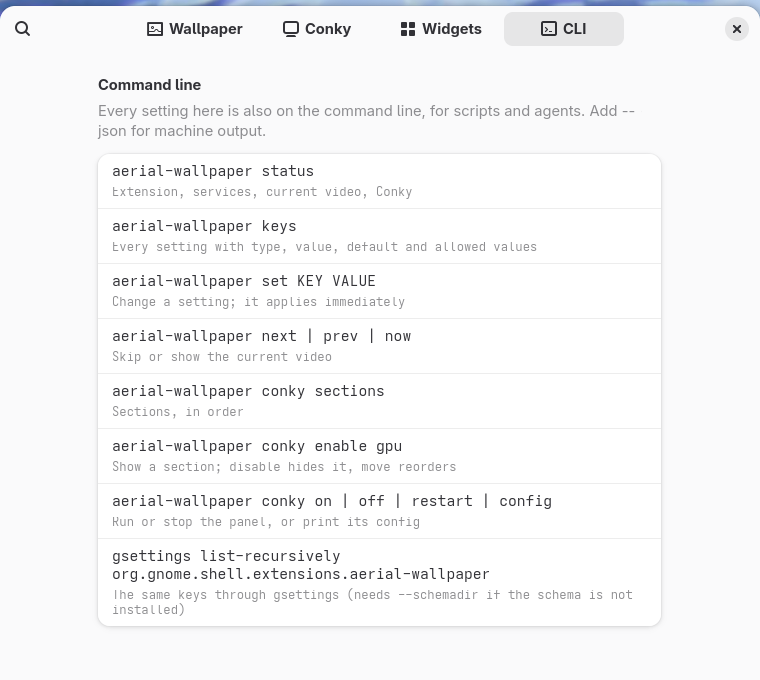
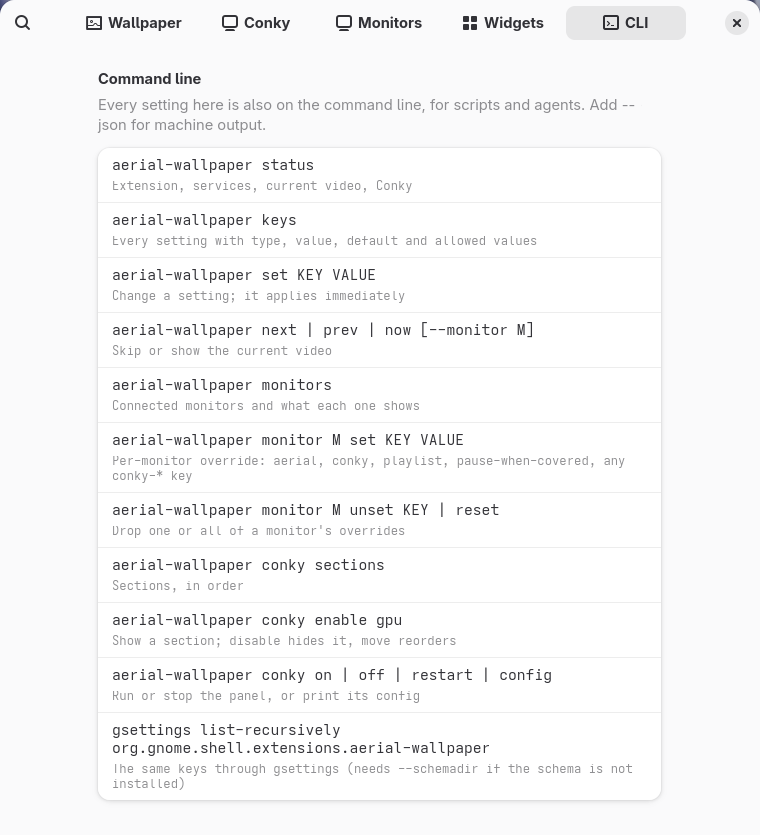
Add multi-monitor screenshots and refresh the preferences screenshots
- docs/screenshots/multimon-desktop.jpg and multimon-panel.jpg from
  tests/multimon-test.sh (two virtual monitors), prefs-monitors.png for
  the new Monitors page; README gets a two-monitor section.
- Refresh the other preferences screenshots for the Monitors tab.
- tests/conky-test.sh: move the prefs screenshot times so each one again
  lands on the page it is named for (the extra page shifted the cycle).

diff --git a/README.md b/README.md
@@ -18,8 +18,23 @@ The same panel restyled and moved from the CLI (`aerial-wallpaper set conky-posi
 |---|---|---|
 | ![Preferences: Wallpaper](docs/screenshots/prefs-wallpaper.png) | ![Preferences: Widgets](docs/screenshots/prefs-widgets.png) | ![Preferences: CLI](docs/screenshots/prefs-cli.png) |
 
+Two monitors, each with its own video, playlist and Conky panel: the 4K primary plays the default playlist with
+the full panel; the 1080p monitor plays the `Space` category with a panel of just the clock and the current video
+(`aerial-wallpaper monitor Meta-1 set playlist Space conky true conky-position bottom-left conky-sections clock,aerial`):
+
+![Two monitors: a video and a panel on each](docs/screenshots/multimon-desktop.jpg)
+
+<p>
+<img src="docs/screenshots/multimon-panel.jpg" alt="The second monitor's panel: clock and current video" width="300">
+<img src="docs/screenshots/prefs-monitors.png" alt="Preferences: Monitors page" width="380">
+</p>
+
+The Monitors page sets video, playlist, panel and panel position per monitor (shown after the second monitor's
+video was switched off from the CLI); every other `conky-*` key can be overridden per monitor from the CLI.
+
 Screenshots come from `tests/conky-test.sh` (headless shell, 3840x2160 virtual monitor; the black window is a
-plain mpv window used to check stacking).
+plain mpv window used to check stacking) and `tests/multimon-test.sh` (two virtual monitors, `Meta-0` 3840x2160
+and `Meta-1` 1920x1080).
 
 - `extension/` — GNOME Shell extension `aerial-wallpaper@viablesys`. It runs one mpv per monitor that plays
   (`aerial-wallpaper@MONITOR.service`, MONITOR = the connector, e.g. `DP-1`), finds each mpv window (Wayland app
